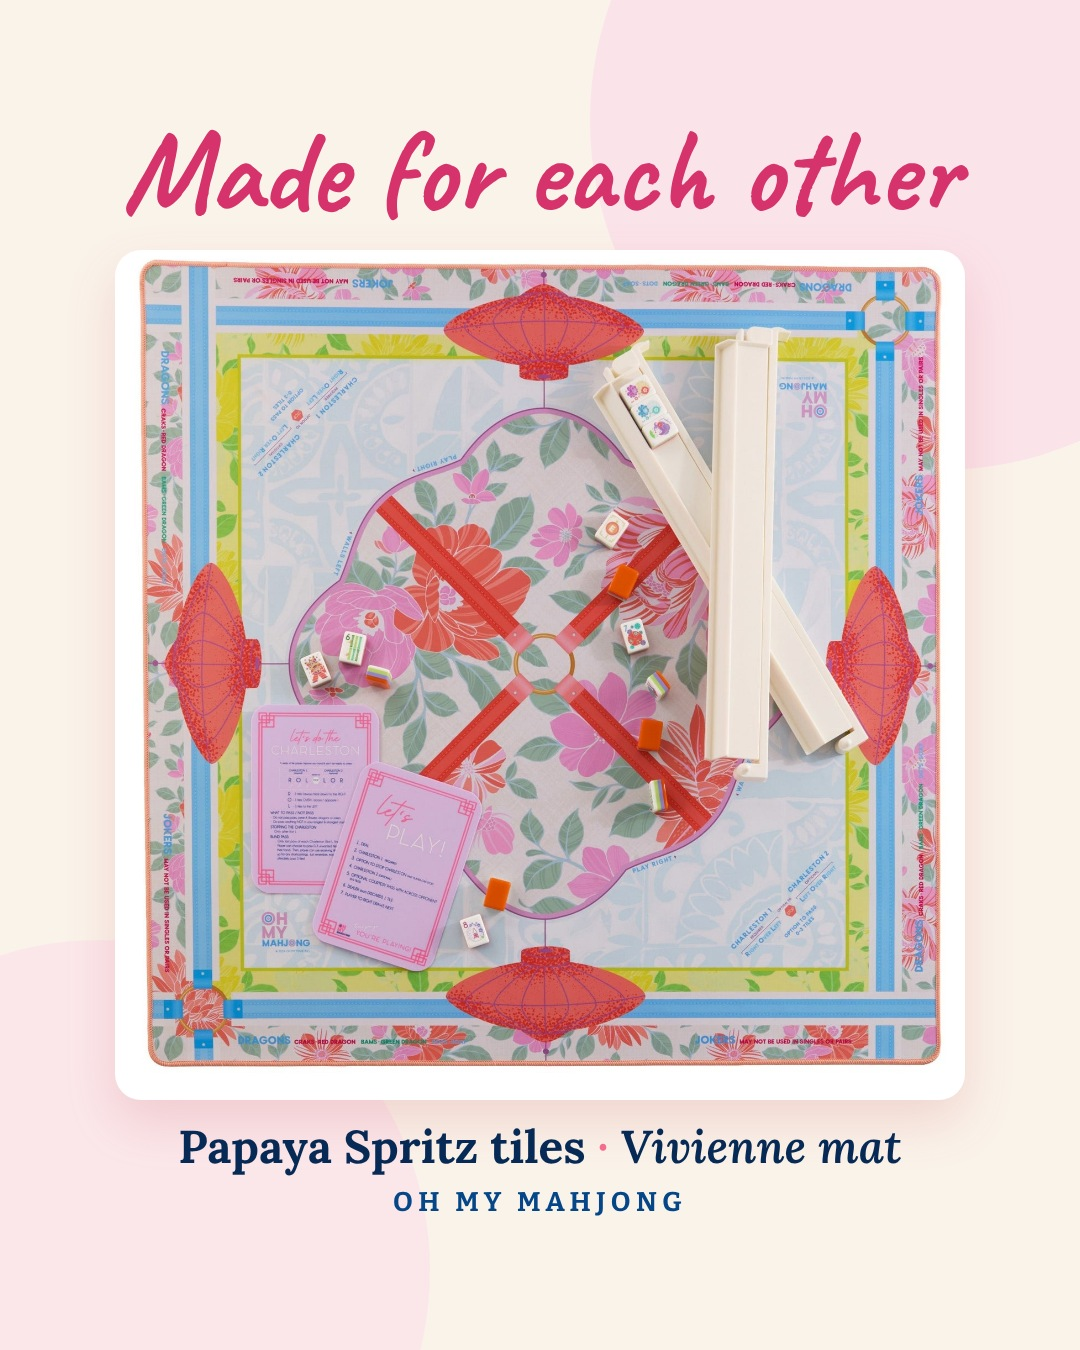
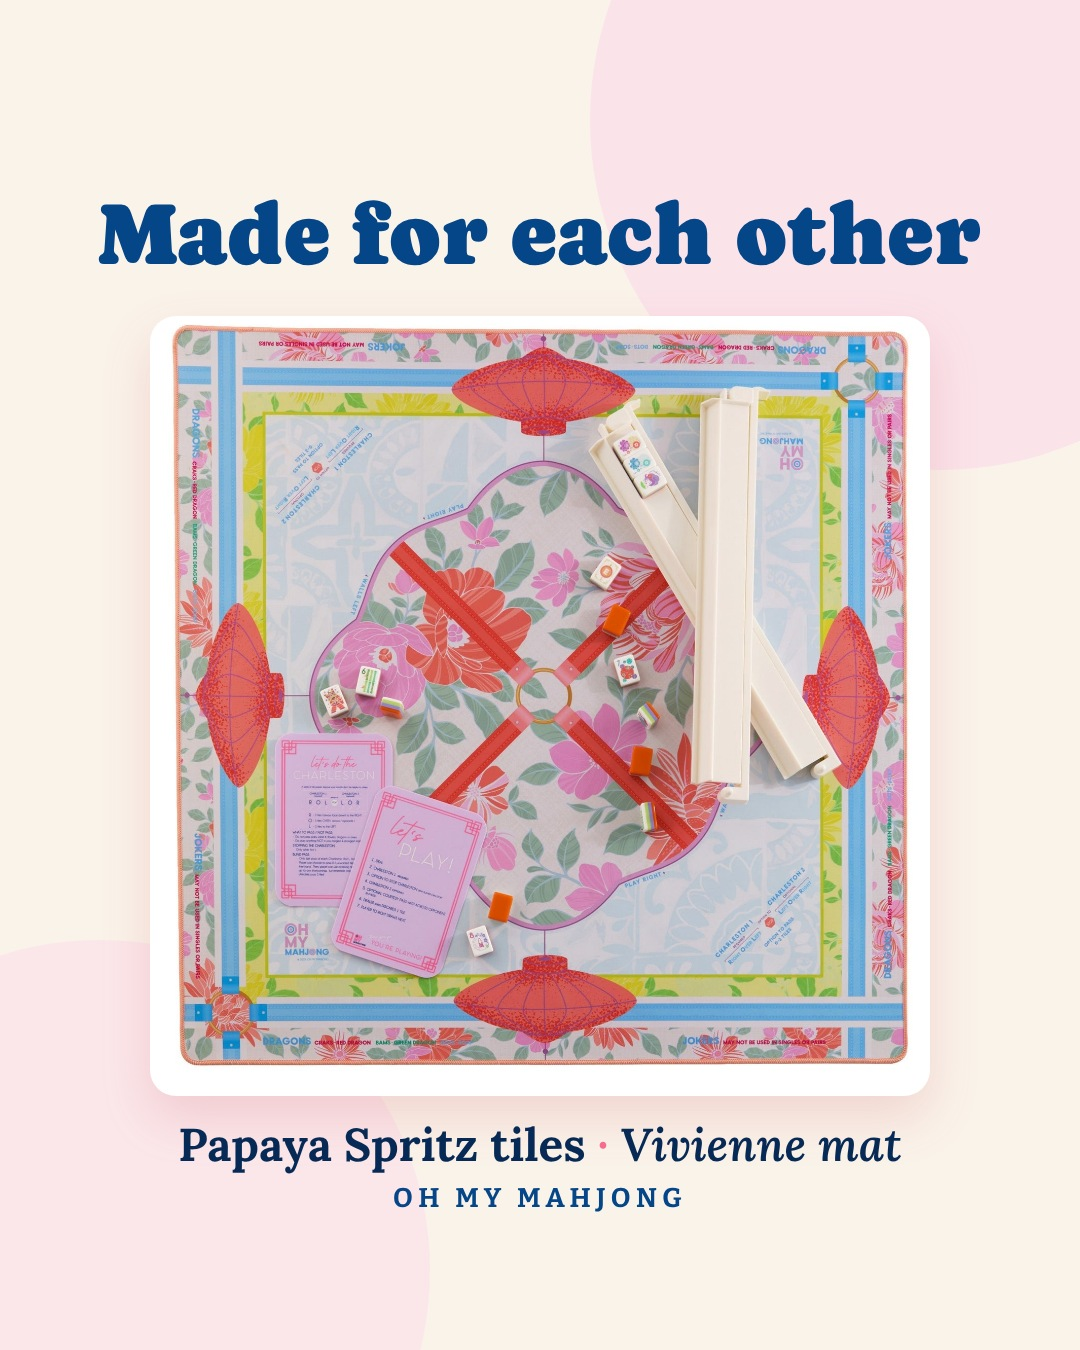
WIP from running agents
Claude-Session: https://claude.ai/code/session_014aKoC1ZMdZPjGkZ9kHhnLk

diff --git a/scripts/pinterest/autopin.py b/scripts/pinterest/autopin.py
@@ -130,7 +130,7 @@ def album_copy(it):
     if len(title) < 60 and b not in title: title = f'{n} Mahjong Tiles by {b}: Mat & Rack Matches'
     desc = (f'Which mahjong mat goes with {b} {n} mahjong tiles? See every mat and rack match I styled for {n}, '
             f'from {color}mahjong mats to racks that pull the tile colors. Ideas for mahjong table decor, '
-            f'gifts and your next mahjong set. Save with code MAHJMATCH at participating partner shops. '
+            f'gifts and your next mahjong set. Save with code MAHJMATCH (affiliate) at participating partner shops. '
             f'#mahjong #mahjongtiles #mahjongmat #mahjongtable #mahjmatchmaker')
     col = next((c for c in it.get('colors', []) if c in COLOR_BOARD), None)
     board = COLOR_BOARD[col] if col else ('Oh My Mahjong Tile and Mat Matches' if b == 'Oh My Mahjong' else 'Mahjong Tile Matches')
@@ -172,6 +172,7 @@ def header(cv, title, sub, accent=NAVY):
 
 
 def footer(cv, l1, l2='mahjmatchmaker.com  ·  Save with code MAHJMATCH', bg=NAVY):
+    l2 = l2 or 'mahjmatchmaker.com'
     d = ImageDraw.Draw(cv); d.rectangle([0, H - 150, W, H], fill=bg)
     d.text((W // 2, H - 122), l1, font=fit(d, l1, BOLD, 46, W - 80, 30), fill=WHITE, anchor='ma')
     d.text((W // 2, H - 62), l2, font=fit(d, l2, SEMI, 32, W - 80), fill=(255, 205, 216), anchor='ma')
@@ -216,6 +217,8 @@ def render(it):
     else:
         top = header(cv, it['head'], it['sub'], accent=accent)
         if it.get('grid'): im = grid(it['grid'], cols=it.get('cols', 2))
+        elif it.get('src_url') and it.get('kind') in ('card', 'guide'):
+            im = fetch_img(it['src_url'] + ('?format=1500w' if 'squarespace-cdn' in it['src_url'] else ''))
         elif it.get('src_url'): im = fetch_img(it['src_url'])
         else: im = Image.open(os.path.join(REPO, it['image']))
         if it.get('crop_top') or it.get('crop_bottom'):
@@ -226,10 +229,133 @@ def render(it):
     it['pin'] = os.path.relpath(fn, REPO); return fn
 
 
+# ---------------------------------------------------------------- expand (Oct 21, Tiffany: "spam it and get it filled up")
+# Every live album yields many unique pins: its cover (on each of its boards), its colour guide, and its
+# match cards (tiles + mat + racks, our own images) in her ranked order. `expand N` adds up to N NEW card
+# pins per album per run, plus any missing cover/guide pins. Re-run weekly to keep circulating.
+HOLD_SETS = {'jade', 'malachite'}  # Miss Mahjong restock: save for the buying window (Tiffany, Oct 21)
+BLOCK_BRANDS = ('paige spearin', 'mahjong studios', 'four winds', 'the mahjong line', 'mahj house rules', 'maison mahj')
+SET_NAMES = {'tortoise': 'Classic Tortoise', 'cypress-forest': 'Cypress Forest', 'heritage-2-0': 'Heritage 2.0',
+             'sunday-tile-set': 'Sunday', 'shangri-la': 'Shangri La', 'la-fete': 'La Fete', 'glow-wild': 'Glow Wild',
+             'lilac-soiree': 'Lilac Soiree', 'preppy-soiree': 'Preppy Soiree', 'spring-love': 'Spring Love',
+             'palm-royale': 'Palm Royale', 'papaya-spritz': 'Papaya Spritz'}
+SET_BRAND = {'jade': 'Miss Mahjong', 'malachite': 'Miss Mahjong', 'tortoise': 'Bam Bird Boutique',
+             'sunday-tile-set': 'Sunday Mahjong', 'cypress-forest': 'Mahjong Row & Co.', 'coquette': 'LoveShackFancy x Oh My Mahjong'}
+HUB_BOARD = {'pink': 'Pink Mahjong Tiles and Mat Matches', 'blue': 'Blue Mahjong Tiles and Mat Matches',
+             'green': 'Green Mahjong Tiles and Mat Matches', 'neutral': 'Neutral Mahjong Tiles and Mat Matches',
+             'ivory': 'Neutral Mahjong Tiles and Mat Matches', 'brown': 'Neutral Mahjong Tiles and Mat Matches'}
+TAGS = ['#mahjong #mahjongtiles #mahjongmat #mahjmatchmaker', '#mahjongmat #mahjongtable #mahjongdecor #mahjmatchmaker',
+        '#americanmahjong #mahjongtiles #mahjongset #mahjmatchmaker', '#mahjongracks #mahjongmat #mahjongtiles #mahjmatchmaker']
+CODE = 'Save with code MAHJMATCH (affiliate) at participating partner shops.'
+
+
+def scrape_album(slug):
+    import html as H
+    p = get(f'{SITE}/{slug}-mahjong-tile-matches'); cards = []; seen = set()
+    for m in re.finditer(r'<img src="(https://(?:images\.squarespace-cdn\.com|cdn\.jsdelivr\.net)/[^"?]+)[^"]*"[^>]*alt="([^"]*mahjong tiles with[^"]*)"', p):
+        url, alt = m.group(1), H.unescape(m.group(2))
+        if url in seen: continue
+        seen.add(url)
+        txt = re.sub(r'\s+', ' ', H.unescape(re.sub('<[^>]+>', ' ', p[m.end():m.end() + 5000])))
+        mm = re.search(r'^\s*(?:\S+\s+){0,6}?(\d{1,2}) (.+?) \+ (.+?) (?:Mat )?by ', txt)
+        after = re.sub(r' (holiday )?mahjong mat$', '', alt.split(' mahjong tiles with ', 1)[1]).strip()
+        base = re.sub(r' Mat$', '', (mm.group(3) if mm else '').strip()).strip()
+        brand = after[:after.lower().rfind(base.lower())].strip() if base and base.lower() in after.lower() else ''
+        nx = re.search(r' Save \d{1,2} ', txt[5:]); seg = txt[:nx.start() + 5] if nx else txt[:1500]
+        rk = re.search(r'Rack (?:matches|shown): (.+?)(?: Save|$)', seg)
+        cards.append(dict(img=url, n=int(mm.group(1)) if mm else 99, mat=base or after, brand=brand,
+                          retired='Retired' in seg[:300] or 'is retired' in seg,
+                          holiday='holiday' in (url + alt).lower(),
+                          racks=[r.strip() for r in rk.group(1).split('·') if r.strip()][:3] if rk else []))
+    cards.sort(key=lambda c: c['n'])
+    g = re.findall(r'https://(?:images\.squarespace-cdn\.com|cdn\.jsdelivr\.net)/[^"?]+(?:color-guide|tile-edit-moodboard)[^"?]*\.jpg', p)
+    return cards, (g[0] if g else None)
+
+
+def boards_for(slug, hubs, brand):
+    b = []
+    for h in hubs:
+        if h in HUB_BOARD and HUB_BOARD[h] not in b: b.append(HUB_BOARD[h])
+    if 'Oh My Mahjong' in (brand or ''): b.append('Oh My Mahjong Tile and Mat Matches')
+    if 'masculine' in hubs: b.append('Mahjong Gift Ideas')
+    if not b: b.append('Mahjong Tile Matches')
+    return b
+
+
+def expand(per_album=3):
+    q = load(); items = q['items']; have = {i['id'] for i in items}
+    used_img = {i.get('src_url') for i in items}
+    hub = {}
+    for h in HUBS:
+        for s in set(re.findall(r'href="/([a-z0-9-]+)-mahjong-tile-matches"', get(f'{SITE}/{h}-mahjong-tile-matches'))):
+            if s not in HUBS: hub.setdefault(s, []).append(h)
+    locs = re.findall(r'<loc>(.*?)</loc>', get(SITE + '/sitemap.xml'))
+    slugs = [m.group(1) for u in locs for m in [re.match(r'https?://www\.mahjmatchmaker\.com/([a-z0-9-]+)-mahjong-tile-matches$', u)] if m and m.group(1) not in HUBS]
+    added = 0
+    for slug in slugs:
+        if slug in HOLD_SETS: continue
+        name = SET_NAMES.get(slug, slug.replace('-', ' ').title())
+        brand = SET_BRAND.get(slug, 'Oh My Mahjong')
+        hubs = hub.get(slug, []); bl = boards_for(slug, hubs, brand)
+        url = f'{SITE}/{slug}-mahjong-tile-matches'; link = url + UTM
+        cards, guide = scrape_album(slug); N = len(cards)
+        cw = ' and '.join(COLOR_WORDS[c] for c in hubs if c not in ('masculine', 'ivory', 'brown'))[:30]
+        # cover on every board it belongs to
+        cov = os.path.join(COVERS, slug + '.jpg')
+        on = {i.get('board') for i in items if i.get('url') == url and i['kind'] in ('album', 'cover2', 'oct19')}
+        for k, b in enumerate(bl):
+            iid = f'cover2-{slug}-{BOARDS[b][-3:]}'
+            if b in on or iid in have or not os.path.exists(cov): continue
+            heads = [f'What mat goes with {name} tiles?', f'{name} mahjong tiles', f'Mats that match {name}']
+            items.append(dict(id=iid, kind='cover2', url=url, link=link, status='pending', prio=25, image=os.path.relpath(cov, REPO),
+                              board=b, head=heads[k % 3], sub=f'{N} mat & rack matches, styled' if N else 'Every mat & rack I matched',
+                              cta=f"See all of {name}'s matches →", cta2='mahjmatchmaker.com',
+                              title=(f'What Mahjong Mat Goes With {name} Tiles? {N} Mat and Rack Matches' if N else f'What Mahjong Mat Goes With {name} Tiles?')[:100],
+                              desc=f'Wondering what mahjong mat goes with {brand} {name} tiles? I styled {name} with {N or "every"} mahjong mats and racks, {("from " + cw + " mats ") if cw else ""}to classic neutrals, so you can see the whole table before you buy. {CODE} {TAGS[k % 4]}'))
+            have.add(iid); added += 1
+        if guide and f'guide-{slug}' not in have and guide not in used_img:
+            items.append(dict(id=f'guide-{slug}', kind='guide', url=url, link=link, status='pending', prio=30, src_url=guide, board=bl[0],
+                              head=f'{name} tiles color guide', sub='The colors, racks & mats that pull them out', cta=f"See all of {name}'s matches →", cta2='mahjmatchmaker.com',
+                              title=f'{name} Mahjong Tiles Color Guide: Matching Mahjong Mats and Racks'[:100],
+                              desc=f'The {brand} {name} mahjong tiles color guide: every color in the set, the mahjong racks that match, and mats that bring those colors out. Pin it before you shop for a mahjong mat. {CODE} {TAGS[2]}'))
+            have.add(f'guide-{slug}'); added += 1
+        k = 0
+        for c in cards:
+            if k >= per_album: break
+            iid = f'card-{slug}-{c["n"]:02d}'
+            if iid in have or c['img'] in used_img or c['retired'] or c['holiday'] or c['n'] == 99: continue
+            if any(x in (c['brand'] + ' ' + c['mat']).lower() for x in BLOCK_BRANDS): continue
+            if slug in ('amara', 'birdie', 'cypress-forest', 'emerald', 'gatsby', 'glow-wild', 'heritage-2-0', 'heritage', 'la-fete', 'lagoon',
+                        'moonlight', 'nantucket', 'osler', 'palm-royale', 'pearlescent', 'pippa', 'seabreeze', 'talulah') and c['n'] == 1: continue  # #1 pinned Oct 19
+            mat, mb = c['mat'], c['brand'] or 'a partner brand'
+            cnt = sum(1 for i in items if i['kind'] == 'card'); j = cnt % 4
+            rot = [bl[0], 'Mahjong Mats & Racks', 'Mahjong Racks and Rack Colors' if c['racks'] else 'Mahjong Tile Matches',
+                   bl[0], 'Mahjong Table Inspiration', bl[-1] if len(bl) > 1 else 'Mahjong Tile Matches', 'Mahjong Tile Matches']
+            rb = rot[(cnt + k) % len(rot)]
+            r1 = c['racks'][0] if c['racks'] else ''
+            titles = [f'{name} Mahjong Tiles With the {mat} Mahjong Mat by {mb}',
+                      f'What Mat Goes With {name} Mahjong Tiles? Try {mb} {mat}',
+                      f'Mahjong Racks for {name} Tiles: {r1} With the {mat} Mat' if r1 else f'{name} Mahjong Table: {mat} Mat and Matching Racks',
+                      f'{mat} Mahjong Mat by {mb}: A Pretty Match for {name} Tiles']
+            racks = ', '.join(c['racks'][:2])
+            descs = [f'{brand} {name} mahjong tiles on the {mat} mahjong mat by {mb}{", with " + racks + " racks" if racks else ""}. It is one of {N} mat and rack matches in the {name} album, so see them all before you pick your mat. {CODE} {TAGS[0]}',
+                     f'What mahjong mat goes with {name} tiles? The {mb} {mat} mat is one of my {N} {name} matches{" (racks: " + racks + ")" if racks else ""}. Browse the whole album for more mahjong mat and rack ideas. {CODE} {TAGS[1]}',
+                     f'Racks that pull the colors out of {name} mahjong tiles: {racks or "see the album"}, styled on the {mat} mahjong mat by {mb}. Mahjong table decor ideas from all {N} {name} matches. {CODE} {TAGS[3]}',
+                     f'The {mat} mahjong mat by {mb} with {brand} {name} tiles{" and " + racks + " racks" if racks else ""}. Love it? There are {N} more mat and rack matches for {name} on mahjmatchmaker.com. {CODE} {TAGS[2]}']
+            items.append(dict(id=iid, kind='card', url=url, link=link, status='pending', prio=35 + c['n'], src_url=c['img'], board=rb,
+                              head=f'{name} tiles + the {mat} mat', sub=f'{mat} mat by {mb}', cta=f"See all {N} of {name}'s matches →",
+                              title=titles[j][:100], desc=descs[j][:500]))
+            have.add(iid); used_img.add(c['img']); k += 1; added += 1
+    save(q); print(f'expand: {added} new items')
+
+
 # ---------------------------------------------------------------- cli
 def main():
     a = sys.argv[1:] or ['help']; q = load(); byid = {i['id']: i for i in q['items']}
     if a[0] == 'refresh': refresh()
+    elif a[0] == 'expand':  # Oct 21: card / guide / 2nd-cover pins from live album pages
+        n = int(a[1]) if len(a) > 1 else 3
+        expand(n)
     elif a[0] == 'render':
         ids = [i['id'] for i in q['items'] if i['status'] == 'pending'] if a[1:] == ['pending'] else a[1:]
         for i in ids:

diff --git a/scripts/social/omm_forward/render.py b/scripts/social/omm_forward/render.py
@@ -1,7 +1,9 @@
 """OMM-forward launch carousel (Tiffany, Oct 21 12:55pm): one post per OMM launch built on OMM's own photography,
 so OMM has something to reshare, and it still points to the album / Find Your Mat-ch.
 
-Papaya Spritz x Vivienne (Oct 21 launch). Three 1080x1350 slides, content inside y 120-1230 (grid crop):
+Papaya Spritz x Vivienne (Oct 21 launch). Three 1080x1350 slides, content inside y 190-1230 (Oct 21 2:12pm, Tiffany: clear of the
+Planoly/IG profile header at the top; grid crop at the bottom). Headlines in Caprasimo navy (the dating-profile headline
+font, never the script); logo = wordmark + 'Matching mahjong tiles, mats & racks' ribbon:
   slide1  OMM's styled pair shot (Vivienne with Papaya Spritz tiles + racks), "Made for each other",
           "Papaya Spritz tiles · Vivienne mat", OH MY MAHJONG.
   slide2  "My favorite faces": OMM photo crops of her favourite Papaya faces with short warm labels.
@@ -30,24 +32,35 @@ COUNT, SHORT = 50, 'Papaya'
 def shell(body, H=1350):
     return f"""<!doctype html><html><head><meta charset=utf8><style>
 @font-face{{font-family:Hand;src:url('{F}/Caveat-Bold.ttf')}}
+@font-face{{font-family:Capra;src:url('{F}/Caprasimo.ttf')}}
 @font-face{{font-family:Lo;src:url('{G}/Lora-Variable.ttf')}}
 @font-face{{font-family:Lo;font-style:italic;src:url('{G}/Lora-Italic-Variable.ttf')}}
 @font-face{{font-family:Bit;font-weight:600;src:url('{F}/bitter-latin-600-normal.woff2')}}
 @font-face{{font-family:Bit;font-weight:700;src:url('{F}/bitter-latin-700-normal.woff2')}}
 *{{margin:0;padding:0;box-sizing:border-box}} body{{width:1080px;height:{H}px;overflow:hidden}}
 .k{{font-family:Bit;font-weight:700;letter-spacing:.2em;color:{WNAVY}}}
+.hd{{font-family:Capra;font-weight:400;line-height:1;color:{WNAVY};text-align:center;white-space:nowrap}}
+.lk{{display:inline-flex;flex-direction:column;align-items:stretch}} .lk img{{display:block;width:100%}}
+.lk b{{display:block;margin-top:.5em;background:#f56c8c;color:#fff;font-family:Bit;font-weight:700;letter-spacing:.16em;text-align:center;white-space:nowrap;padding:.42em 0 .38em;border-radius:3px}}
 </style></head><body><div id=pg style="position:relative;width:1080px;height:{H}px;background:{PAPER};overflow:hidden">
 <div style="position:absolute;right:-210px;top:-230px;width:700px;height:700px;border-radius:50%;background:{BLUSHBG}"></div>
 <div style="position:absolute;left:-230px;bottom:-250px;width:660px;height:660px;border-radius:50%;background:{BLUSHBG};opacity:.75"></div>
 {body}</div></body></html>"""
 
 
+def lockup(w):
+    """Wordmark WITH the tagline ribbon (Tiffany Oct 21 2:12pm; = assets/brand/mahjmatchmaker-wordmark.png, rebuilt in HTML
+    so it stays sharp at any size: that PNG is only 420px wide). Never pair it with "Hooking up..." (one tagline per piece)."""
+    return (f'<div class=lk style="width:{w}px"><img src="{u('assets/brand/mahjmatchmaker-wordmark-notag.png')}">'
+            f'<b style="font-size:{round(w*0.04)}px">MATCHING MAHJONG TILES, MATS &amp; RACKS</b></div>')
+
+
 def slide1():
     return shell(f"""
-<div style="position:absolute;left:0;right:0;top:112px;text-align:center;font-family:Hand;font-size:118px;line-height:1;color:{PINK}">Made for each other</div>
-<div style="position:absolute;left:115px;top:250px;width:850px;height:850px;border-radius:26px;background:#fff url('{u(PAIR)}') center/104% no-repeat;box-shadow:0 22px 50px rgba(200,80,90,.18)"></div>
-<div style="position:absolute;left:0;right:0;top:1124px;text-align:center;font-family:Lo;font-weight:700;font-size:46px;color:{NAVY};line-height:1">Papaya Spritz tiles <span style="color:{PINK2}">&middot;</span> <i style="font-weight:600">Vivienne mat</i></div>
-<div class=k style="position:absolute;left:0;right:0;top:1186px;text-align:center;font-size:27px">OH MY MAHJONG</div>
+<div class=hd style="position:absolute;left:0;right:0;top:190px;font-size:88px">Made for each other</div>
+<div style="position:absolute;left:150px;top:316px;width:780px;height:780px;border-radius:26px;background:#fff url('{u(PAIR)}') center/104% no-repeat;box-shadow:0 22px 50px rgba(200,80,90,.18)"></div>
+<div style="position:absolute;left:0;right:0;top:1122px;text-align:center;font-family:Lo;font-weight:700;font-size:46px;color:{NAVY};line-height:1">Papaya Spritz tiles <span style="color:{PINK2}">&middot;</span> <i style="font-weight:600">Vivienne mat</i></div>
+<div class=k style="position:absolute;left:0;right:0;top:1182px;text-align:center;font-size:27px">OH MY MAHJONG</div>
 """)
 
 
@@ -56,7 +69,7 @@ def face(img, w):
             f'box-shadow:0 0 0 3px #fff,0 14px 30px rgba(6,42,85,.16)"></div>')
 
 
-def group(imgs, name, sub, w=250, gap=22):
+def group(imgs, name, sub, w=220, gap=20):
     tiles = ''.join(face(i, w) for i in imgs)
     return (f'<div style="display:flex;flex-direction:column;align-items:center">'
             f'<div style="display:flex;gap:{gap}px">{tiles}</div>'
@@ -70,10 +83,10 @@ def slide2():
     row2 = group(['crane.png'], 'The crowned crane', 'the prettiest bird bam') + \
         group(['dot3.png', 'dot7.png'], 'The parasol dots', 'spritz weather, always')
     return shell(f"""
-<div style="position:absolute;left:0;right:0;top:112px;text-align:center;font-family:Hand;font-size:118px;line-height:1;color:{PINK}">My favorite faces</div>
-<div class=k style="position:absolute;left:0;right:0;top:236px;text-align:center;font-size:27px">PAPAYA SPRITZ &middot; OH MY MAHJONG</div>
-<div style="position:absolute;left:0;right:0;top:300px;display:flex;justify-content:center;gap:56px">{row1}</div>
-<div style="position:absolute;left:0;right:0;top:770px;display:flex;justify-content:center;gap:56px">{row2}</div>
+<div class=hd style="position:absolute;left:0;right:0;top:190px;font-size:96px">My favorite faces</div>
+<div class=k style="position:absolute;left:0;right:0;top:304px;text-align:center;font-size:27px">PAPAYA SPRITZ &middot; OH MY MAHJONG</div>
+<div style="position:absolute;left:0;right:0;top:372px;display:flex;justify-content:center;gap:64px">{row1}</div>
+<div style="position:absolute;left:0;right:0;top:800px;display:flex;justify-content:center;gap:64px">{row2}</div>
 """)
 
 
@@ -87,17 +100,16 @@ def card(mat, x, y, w, rot, z):
 
 
 def slide3():
-    cards = (card('goldie', 40, 230, 380, -8, 1) + card('larkspur', 660, 230, 380, 8, 1) +
-             card('vivienne', 315, 160, 450, 0, 3))
+    cards = (card('goldie', 40, 270, 380, -8, 1) + card('larkspur', 660, 270, 380, 8, 1) +
+             card('vivienne', 315, 196, 450, 0, 3))
     return shell(f"""{cards}
-<div style="position:absolute;left:60px;right:60px;top:720px;z-index:5;background:{PAPER};border-radius:34px;padding:34px 30px 32px;text-align:center;box-shadow:0 20px 50px rgba(6,42,85,.22)">
-  <div style="font-family:Hand;font-size:88px;line-height:1;white-space:nowrap;color:{PINK}">50 matches and counting</div>
+<div style="position:absolute;left:60px;right:60px;top:744px;z-index:5;background:{PAPER};border-radius:34px;padding:34px 30px 34px;text-align:center;box-shadow:0 20px 50px rgba(6,42,85,.22)">
+  <div class=hd style="font-size:72px">50 matches and counting</div>
   <div style="display:inline-block;margin-top:26px;background:{NAVY};color:#fff;border-radius:44px;padding:16px 44px 18px;line-height:1.15">
     <div style="font-family:Lo;font-weight:700;font-size:40px">Swipe all {COUNT} of {SHORT}&rsquo;s matches</div>
     <div style="font-family:Bit;font-weight:600;font-size:28px;letter-spacing:.06em;color:#f7b6c8;margin-top:4px">mahjmatchmaker.com</div>
   </div>
-  <div><img src="{u('assets/brand/mahjmatchmaker-wordmark-notag.png')}" style="width:400px;margin-top:26px"></div>
-  <div style="font-family:Lo;font-style:italic;font-size:28px;color:{WNAVY};margin-top:4px">Hooking up tiles, mats &amp; racks</div>
+  <div style="margin-top:28px">{lockup(420)}</div>
 </div>
 """)
 
@@ -109,13 +121,12 @@ def slide3_story():
              card('vivienne', 250, 40, 580, 0, 3))
     return shell(f"""{cards}
 <div style="position:absolute;left:30px;right:30px;top:780px;z-index:5;background:{PAPER};border-radius:40px;padding:40px 30px 40px;text-align:center;box-shadow:0 20px 50px rgba(6,42,85,.22)">
-  <div style="font-family:Hand;font-size:98px;line-height:1;white-space:nowrap;color:{PINK}">50 matches and counting</div>
+  <div class=hd style="font-size:76px">50 matches and counting</div>
   <div style="display:inline-block;margin-top:30px;background:{NAVY};color:#fff;border-radius:54px;padding:20px 52px 22px;line-height:1.15">
     <div style="font-family:Lo;font-weight:700;font-size:50px;white-space:nowrap">Swipe all {COUNT} of {SHORT}&rsquo;s matches</div>
     <div style="font-family:Bit;font-weight:600;font-size:36px;letter-spacing:.06em;color:#f7b6c8;margin-top:6px">mahjmatchmaker.com</div>
   </div>
-  <div><img src="{u('assets/brand/mahjmatchmaker-wordmark-notag.png')}" style="width:520px;margin-top:32px"></div>
-  <div style="font-family:Lo;font-style:italic;font-size:38px;color:{WNAVY};margin-top:6px;white-space:nowrap">Hooking up tiles, mats &amp; racks</div>
+  <div style="margin-top:34px">{lockup(540)}</div>
 </div>
 """, 1500)
 
